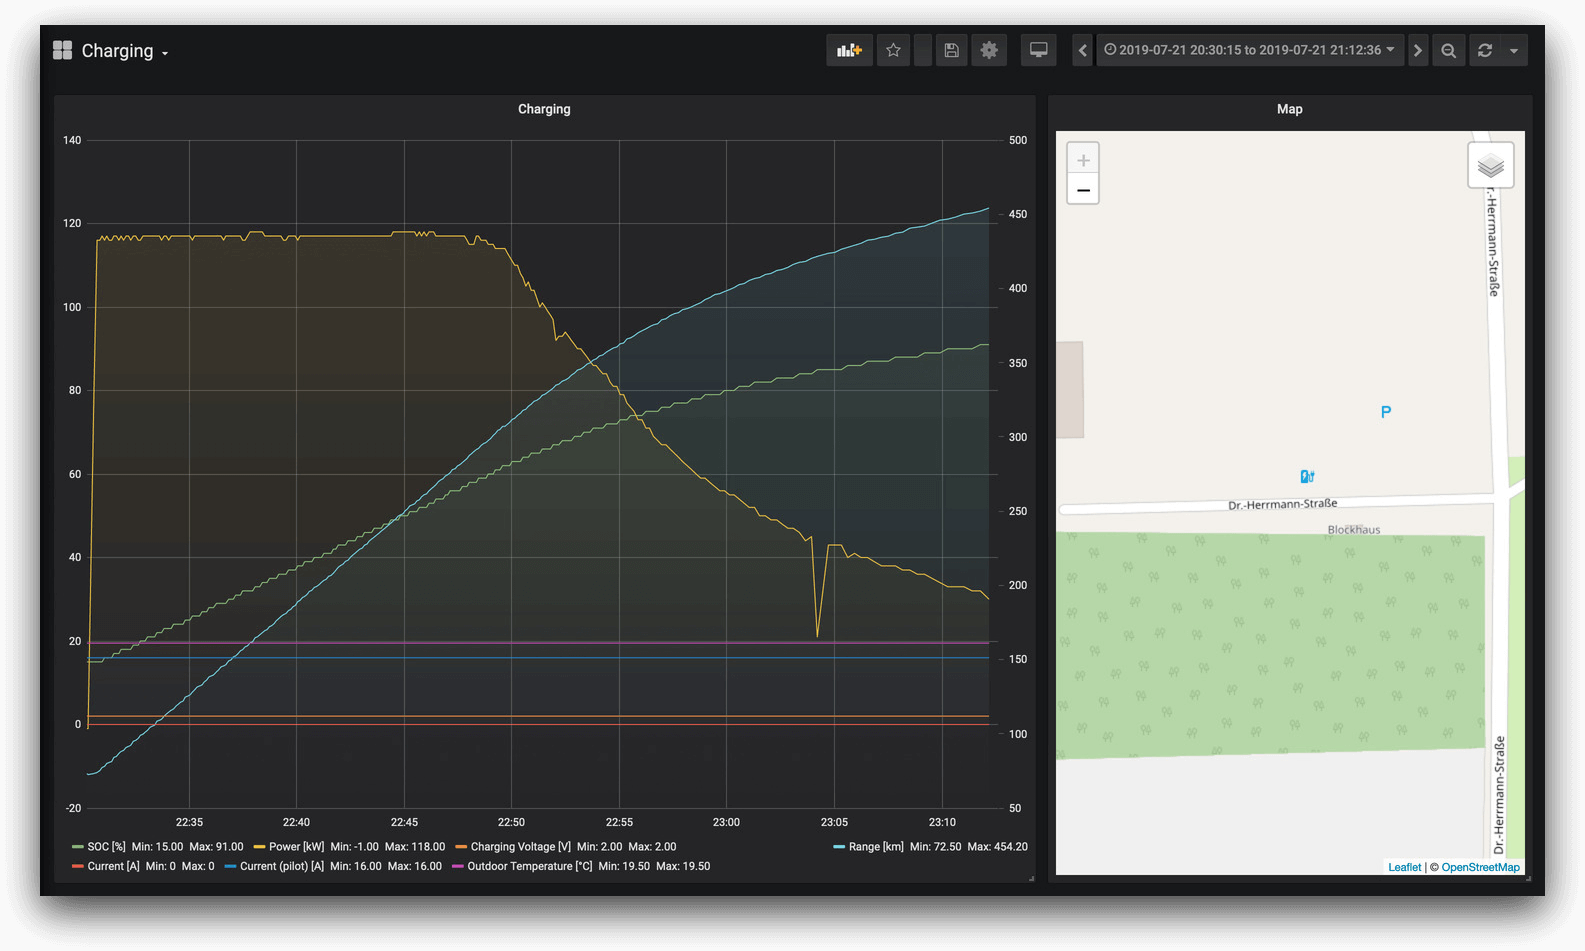
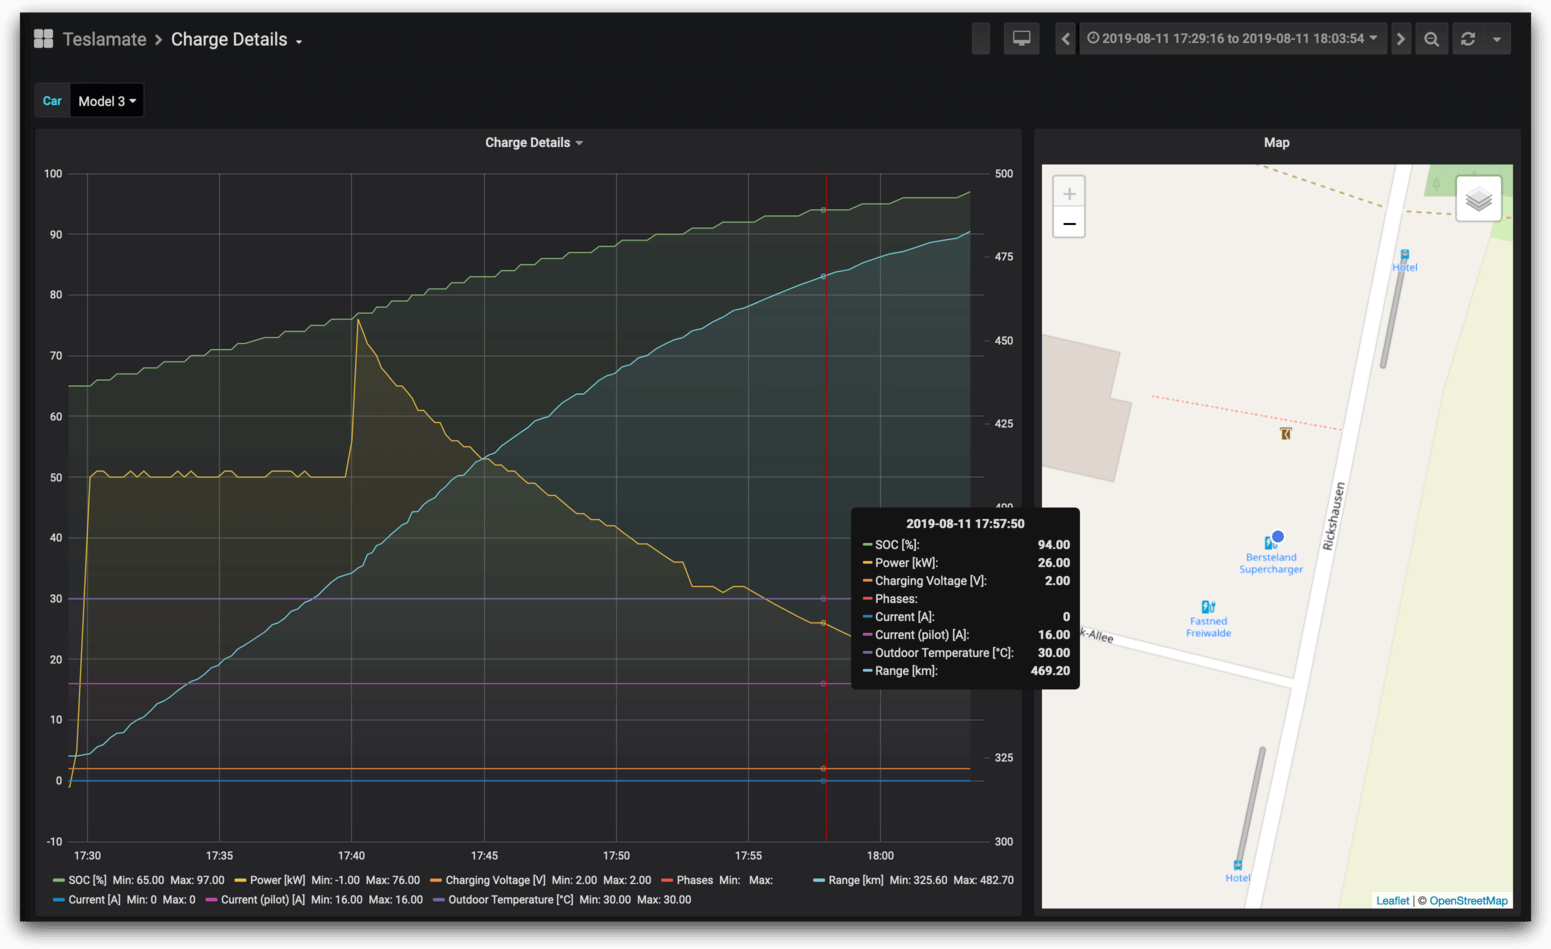
Update screenshots

diff --git a/README.md b/README.md
@@ -39,11 +39,12 @@ A data logger for your Tesla.
 
 ## Screenshots
 
-![Drive](screenshots/drive.png)
+![Drive Details](screenshots/drive.png)
 ![Drives](screenshots/drives.png)
+![Efficiency](screenshots/efficiency.png)
 ![States](screenshots/states.png)
-![Charging](screenshots/charging.png)
-![Charging History](screenshots/charging_history.png)
+![Charge Details](screenshots/charging.png)
+![Charges](screenshots/charging_history.png)
 ![Vampire Drain](screenshots/vampire_drain.png)
 
 1. [Installation](#installation)
